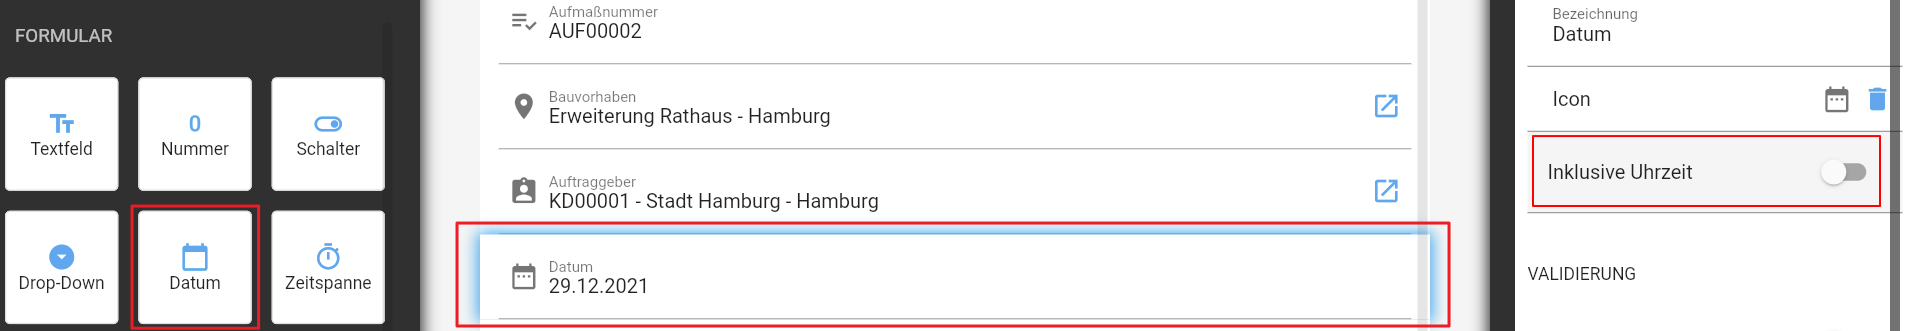
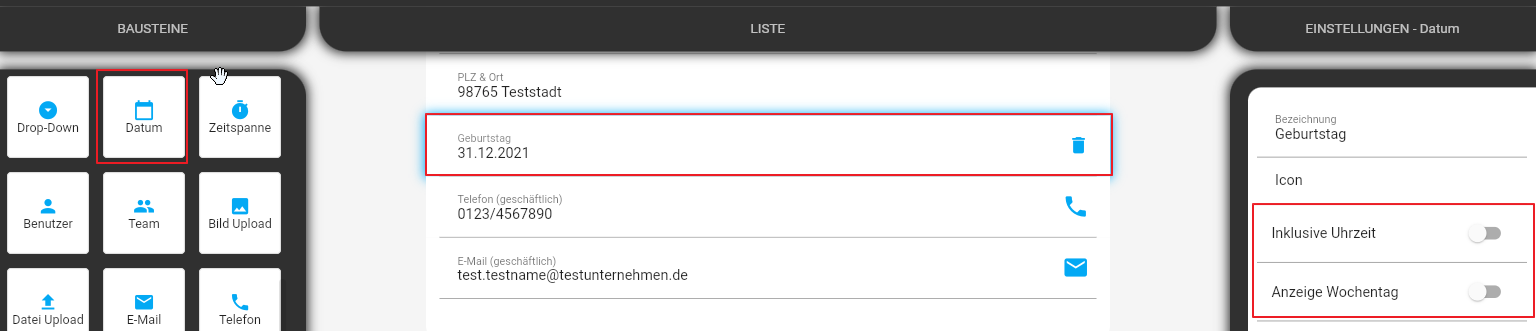
Erweiterung Wochentag Baustein Datum

diff --git a/docs/record-spec-settings/grand-childs-form/date.md b/docs/record-spec-settings/grand-childs-form/date.md
@@ -8,7 +8,7 @@ nav_order: 5
 
 # <span style="color:#0b5394"><span class="material-icons">calendar_today</span> **Baustein *Datum***</span>
 
-Mit dem Baustein *Datum* kann ein Einzeldatum für den Datensatz eingetragen werden. Bei Bedarf auch inklusive Uhrzeit.
+Mit dem Baustein *Datum* kann ein Einzeldatum für den Datensatz eingetragen werden. Bei Bedarf auch inklusive Uhrzeit und Anzeige des Wochentags.
 
 ![date](\assets\record-spec-settings\1date.png "date")
 
@@ -16,5 +16,3 @@ Das heutige Datum ist immer voreingestellt.
 Die Uhrzeit können Sie im Bearbeitungsmodus entweder händisch eintragen, oder über das Symbol anklicken.
 
 Der Baustein eignet sich für sämtliche datumsabhängige Datensätze, z.B. Termine oder Erstellungsdatum.
-
-Zusätzlich kann die Kurzform des entsprechenden Wochentags in den Einstellungen hinzugefügt werden.
